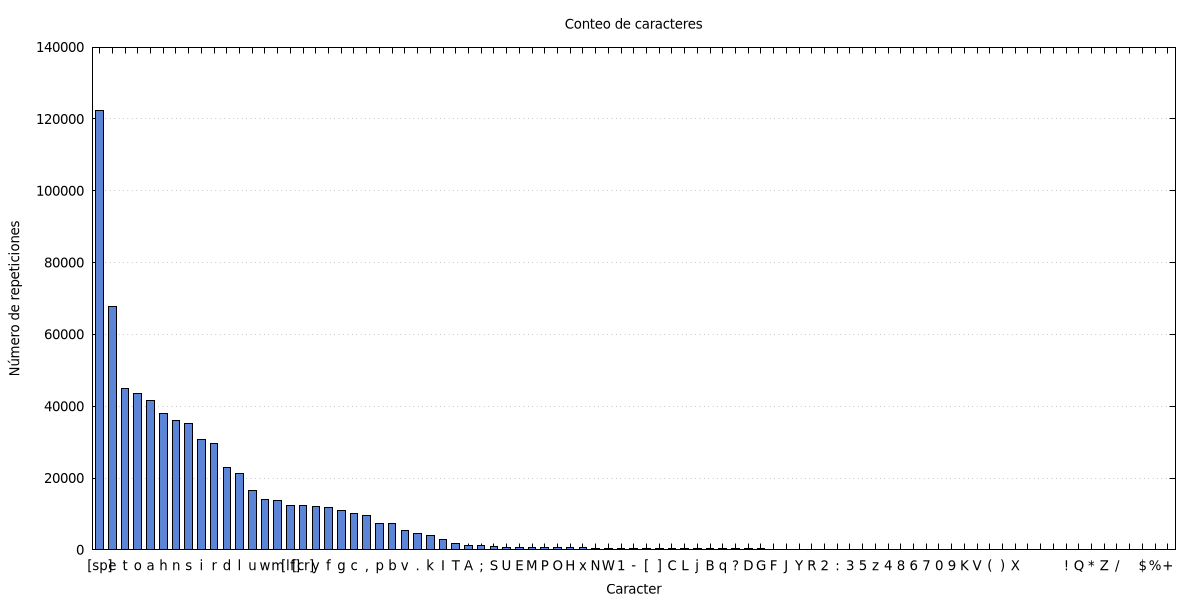
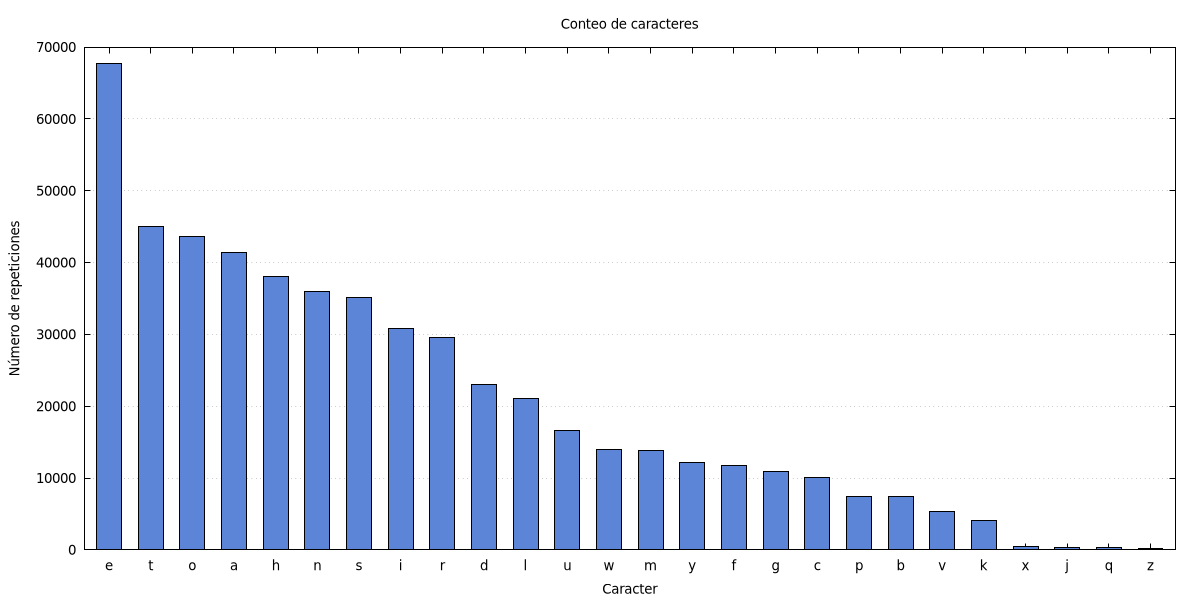
actividad en clase

Changed region(s): [[0.0308, 0.06, 0.8633, 0.99], [0.4625, 0.03, 0.5858, 0.06], [0.8942, 0.93, 0.9867, 0.96]]

diff --git a/text_gen.c b/text_gen.c
@@ -11,6 +11,8 @@ text_stats get_text_stats_from_str(char* s) {
 	text_stats ts = {0}; ts.count = strlen(s);
 	for (int i = 0; i < ts.count; i++) {
 		if (s[i] >= 0x80) continue;
+		if (s[i] < 'a') continue;
+		if (s[i] > 'z') continue;
 		ts.frec[(int)s[i]]++;
 	}
 	return ts;
@@ -39,10 +41,27 @@ char get_random_character(text_stats ts) {
 }
 
 int main (int argc, char** argv) {
+	// Leer archivo y generar estadisticas
 	chars cs = {0};
 	chars_from_file(&cs, argv[1]);
 	text_stats ts = get_text_stats_from_str(cs.data);
+
+	// formatear mensaje para compartir a compartir con compañeros
+	chars csm = {0};
+	for (size_t i = 0; i < 1024*16; i++) {
+		char v = cs.data[i];
+		if(v > 255) continue;
+		if(v >= 'a' && v <= 'z')
+			chars_append(&csm, v);
+	}
+
+	chars_append(&csm, 0);
+	str_to_file(csm.data, "mensaje.txt");
+
 	free(cs.data);
+	free(csm.data);
+
+	// guardar estadisticas para graficar histograma y barra de chances
 
 	char str[256];
 	int sorting[256];
@@ -65,13 +84,51 @@ int main (int argc, char** argv) {
 		}
 	}
 	fclose(f);
+
+	// generar texto aleatorio
 	
 	char generated_text[512];
 	for (int i = 0; i < 512 - 1; i++) {
 		generated_text[i] = get_random_character(ts);
 	}
 	generated_text[512-1] = 0;
-	str_to_file(generated_text, "generated_text.md");
+	str_to_file(generated_text, "generated_text.txt");
+
+	// encriptar mensaje
+
+	char suffle[] = "qwertyuiopasdfghjklzxcvbnm";
+	chars mensaje_f = {0};
+	chars_from_file(&mensaje_f, "mensaje.txt");
+	char* mensaje = mensaje_f.data;
+	char encripted_mensaje[strlen(mensaje) + 1];
+	encripted_mensaje[strlen(mensaje)]=0;
+	for (size_t i = 0; i < strlen(mensaje); i++)
+		encripted_mensaje[i] = suffle[mensaje[i] - 'a'];
+	str_to_file(encripted_mensaje, "mensaje_encriptado.txt");
+
+	// generar estadisticas del mensaje de nuestros compeñeros
+
+	chars mensaje_e_f = {0};
+	//chars_from_file(&mensaje_e_f, "mensaje_cuartas.txt");
+	chars_from_file(&mensaje_e_f, "mensaje_encriptado.txt");
+	char* mensaje_cuartas = mensaje_e_f.data;
+	text_stats tse = get_text_stats_from_str(mensaje_cuartas);
+
+	int sortinge[256];
+	sort(tse.frec, sortinge, 256);
+
+	// comparar estadisticas para emparejar caracteres y desencriptar el mensaje y guardarlo
+
+	char mensaje_cuartas_desencriptado[strlen(mensaje_cuartas)+1];
+	mensaje_cuartas_desencriptado[strlen(mensaje_cuartas)] = 0;
+
+	for (size_t i = 0; i < strlen(mensaje_cuartas); i++) {
+		size_t j = 0;
+		while ( mensaje_cuartas[i] != sortinge[j]) j++;
+		mensaje_cuartas_desencriptado[i] = sorting[j];
+	}
+
+	str_to_file(mensaje_cuartas_desencriptado, "mensaje_desencriptado.txt");
 
 	return 0;
 }

diff --git a/formater.h b/formater.h
@@ -9,6 +9,11 @@ typedef struct {
         char values[128][128];
 } table_t;                                              
 
+typedef struct {
+	size_t count, cap;
+	char *data;
+} chars;
+
 void table_append(table_t *tbl, char *key, char *value);
 int table_search(table_t *tbl, char *key);
 void table_define(table_t *tbl, char *key, char *value);
@@ -21,6 +26,14 @@ void formater_file (char *src_path, char *dst_path, table_t *tbl);
 
 #include <string.h>
 #include <stdio.h>
+
+void chars_append(chars* csm, char v) {
+	if (csm->count >= csm->cap) {
+		csm->cap = csm->cap == 0 ? 1 : csm->cap * 2;
+		csm->data = realloc(csm->data, csm->cap);
+	}
+	csm->data[csm->count++] = v;
+}
 
 void table_append(table_t *tbl, char *key, char *value) {
 	strcpy(tbl->keys[tbl->count], key);
@@ -84,11 +97,6 @@ void formater(char *src, char *dst, table_t *tbl) {
 	}
 
 }
-
-typedef struct {
-	size_t count, cap;
-	char *data;
-} chars;
 
 void chars_from_file(chars *str, char *path) {
 	FILE *file = fopen(path, "r");

diff --git a/barras_apiladascuar.py b/barras_apiladascuar.py
@@ -1,0 +1,28 @@
+import pandas as pd
+import matplotlib.pyplot as plt
+
+# 1. Cargar el archivo .dat separado por espacios
+df = pd.read_csv('mensaje_cuartas.txt.dat', sep=r'\s+', header=None, names=['valor', 'frecuencia'], quoting=3)
+
+# 2. Configurar la figura
+fig, ax = plt.subplots(figsize=(12, 4))
+
+# 3. Dibujar las barras apiladas horizontalmente
+left = 0
+for idx, row in df.iterrows():
+    ax.barh(y=0, width=row['frecuencia'], left=left, label=str(row['valor']))
+    left += row['frecuencia']
+
+# 4. Personalizar el estilo
+ax.set_title("Barra de chances", fontsize=12, pad=50)
+ax.set_yticks([])
+ax.set_xlim(0, left)
+ax.grid(axis='x', linestyle=':', alpha=0.6)
+
+# Leyenda superior en múltiples columnas
+ax.legend(ncols=22, loc='lower center', bbox_to_anchor=(0.5, 1.02), frameon=False, fontsize=7)
+
+#plt.tight_layout()
+
+# 5. Guardar la imagen en formato PNG
+plt.savefig('grafico_chances_cuar.png', dpi=300, bbox_inches='tight')

diff --git a/bld.c b/bld.c
@@ -17,8 +17,11 @@ int main (int argc, char** argv) {
 	}
 	// ---------
 	cmd("gcc -Wall -Wextra -lm -o text_gen text_gen.c");
+	cmd("./text_gen mensaje_cuartas.txt");
 	cmd("./text_gen odyssey.txt");
 	cmd("gnuplot histograma.gp");
 	cmd("python barras_apiladas.py");
+	cmd("gnuplot histogramacuar.gp");
+	cmd("python barras_apiladascuar.py");
 	return 0;
 }

diff --git a/actividad_01.md b/actividad_01.md
@@ -5,31 +5,8 @@
 ## Resultados
 Los siguientes resultados se realizaron usando el libro [odyssey](odyssey.txt) el cual se puede encontrar en el siguiente [link](https://www.gutenberg.org/ebooks/1727).
 - texto generado aleatoriamente
-``` md
-outrg ue eafe
-t u
-nvrniwpibhl
-lgtneioe rueeamhiio.nf aes
-tdrtxUrstiheofhdtswiioawio
-sb
-s,ei h
- d m fho
-try
-cotitef er e
-n a, eoe y tnMufeuw yi e .tyca 
-nle  agcaie sbkeKoheensn tledui
-h  nei nbkyatinbadoo oiZids ah 
-net   testutlrF a 
-n
-iuptttee eaiaaohddd,ea
-,n oy,dyreusdr.ywrAo oeo u adheodgecoygneehrdtvhn  ttrrvo eJis  hrier 
- mo  p nle ncseeogsv,t ahttts  
-vye ogwd 
- esm h  ndvusf
-tis
-n
- se.i d  earett  voo moomiami nnu  naerfw.ecaaeheaeg   tnlheo ,neadosaewhsasasho tee ibs se .ion
-aisi sa a e rdenosse
+``` txt
+veeboaenamholaedeatfausfasirthtoeuoswmeaeonitossvfuochndhelaeghcderrnworiedgsswhgswadiacfnsdradlatborwheahaiyeseooboadnhueheelanehceugeonegehrenefegiiehutmaehoihsnecismgypnotdtbetmlerarddvnseuisgiesuiilwaewshslcdhreatneaeceodeeesagbiehuareaeeemnemhshiwplklfnhhfuavgflhaoedlafggagwawnybechlpnalooiwhotnnobleeoueeeeaaewangrdecoasmabaetveeadusoatidoowodefedireeededaehmeaogldaeodtbredtjeecohesdhuaddnfsbldelhbleecefxwbtwwtshtrdttebauinaoffoiiinpnhnoddeettrmyeetnhladimgrdhdiepyeemnesiceelcfsatahsdsechehdneaknuxddo
 ```
 - histograma
 
@@ -39,8 +16,31 @@ Se realizo el histograma usando el siguiente [script](histograma.gp) de *gnuplot
 
 Se realizo el grafico de barra de chances con el siguiente [script](barras_apiladas.py) de *python*
 ![barra](grafico_chances.png)
-- [codigo](text_gen.c).
+- [codigo](text_gen.c), el codigo se solapo con el ya hecho en la actividad en clase, se puede ver el codigo original en el commit anterior al actual.
+
 ## glosario
 - Histograma de frecuencias: Representación gráfica mediante barras que muestra cuántas veces se repite cada valor o carácter en un conjunto de datos (muy utilizado en criptoanálisis para analizar la aparición de letras en un texto).
 - Cifrado por sustitución: Método de encriptación en el que las unidades de texto plano (como letras o grupos de letras) son reemplazadas sistemáticamente por otras letras, símbolos o números según una regla o clave fija.
 - Retorno de carro y espacio: Caracteres especiales de control de texto; el retorno de carro (\r o CR) mueve el cursor o punto de inserción al inicio de la línea actual, mientras que el espacio ( ) representa un espacio en blanco entre palabras o símbolos.
+
+
+# Actividad en clase
+Se realizó un intercambio de mensajes encriptados, nuestro mensaje original es [este](mensaje.txt) y su respectivo encriptado con nuestra clave es el [siguiente](mensaje_encriptado.txt).
+- clave de encriptacion:
+``` txt
+abcdefghijklmnopqrstuvwxyz
+qwertyuiopasdfghjklzxcvbnm
+```
+
+- histograma del mensaje de nuestros compañeros
+
+Se realizo el histograma usando el siguiente [script](histogramacuar.gp) de *gnuplot*.
+![histograma](grafica_caracteres_cuar.png)
+- barra de chances de nuestros compañeros
+
+Se realizo el grafico de barra de chances con el siguiente [script](barras_apiladascuar.py) de *python*
+![barra](grafico_chances_cuar.png)
+
+El texto entregado por ellos es [este](mensaje_cuartas.txt) y el intento de desencriptarlo es [este](mensaje_desencriptado.txt)
+
+- [codigo](text_gen.c).
